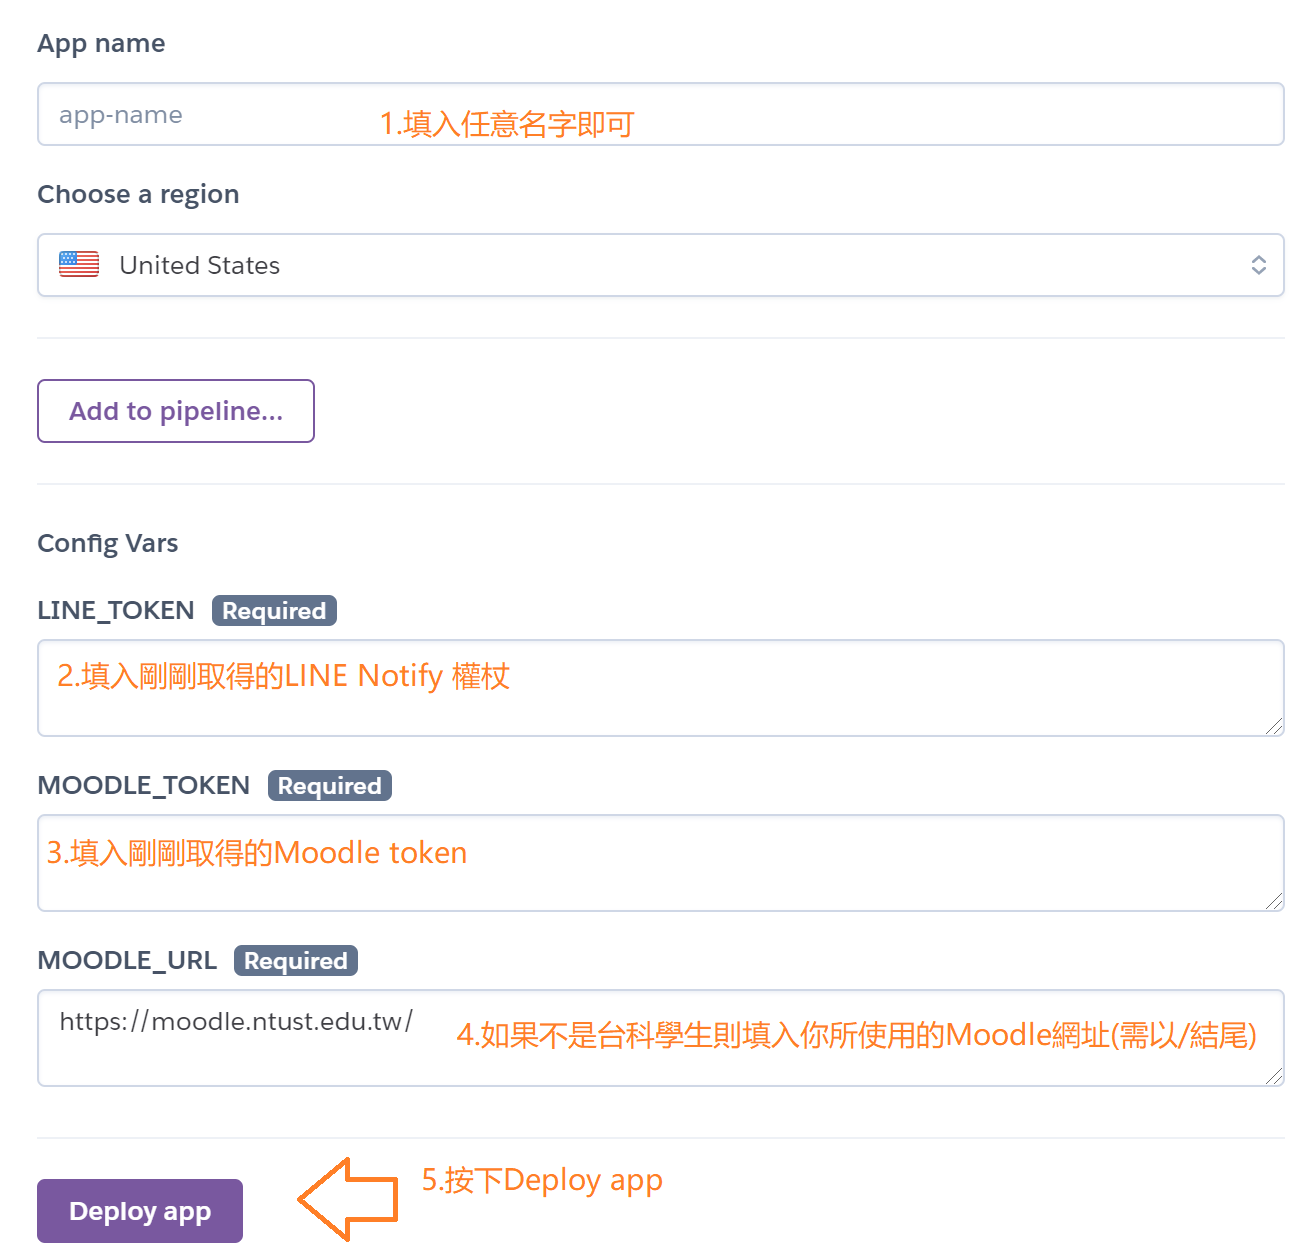
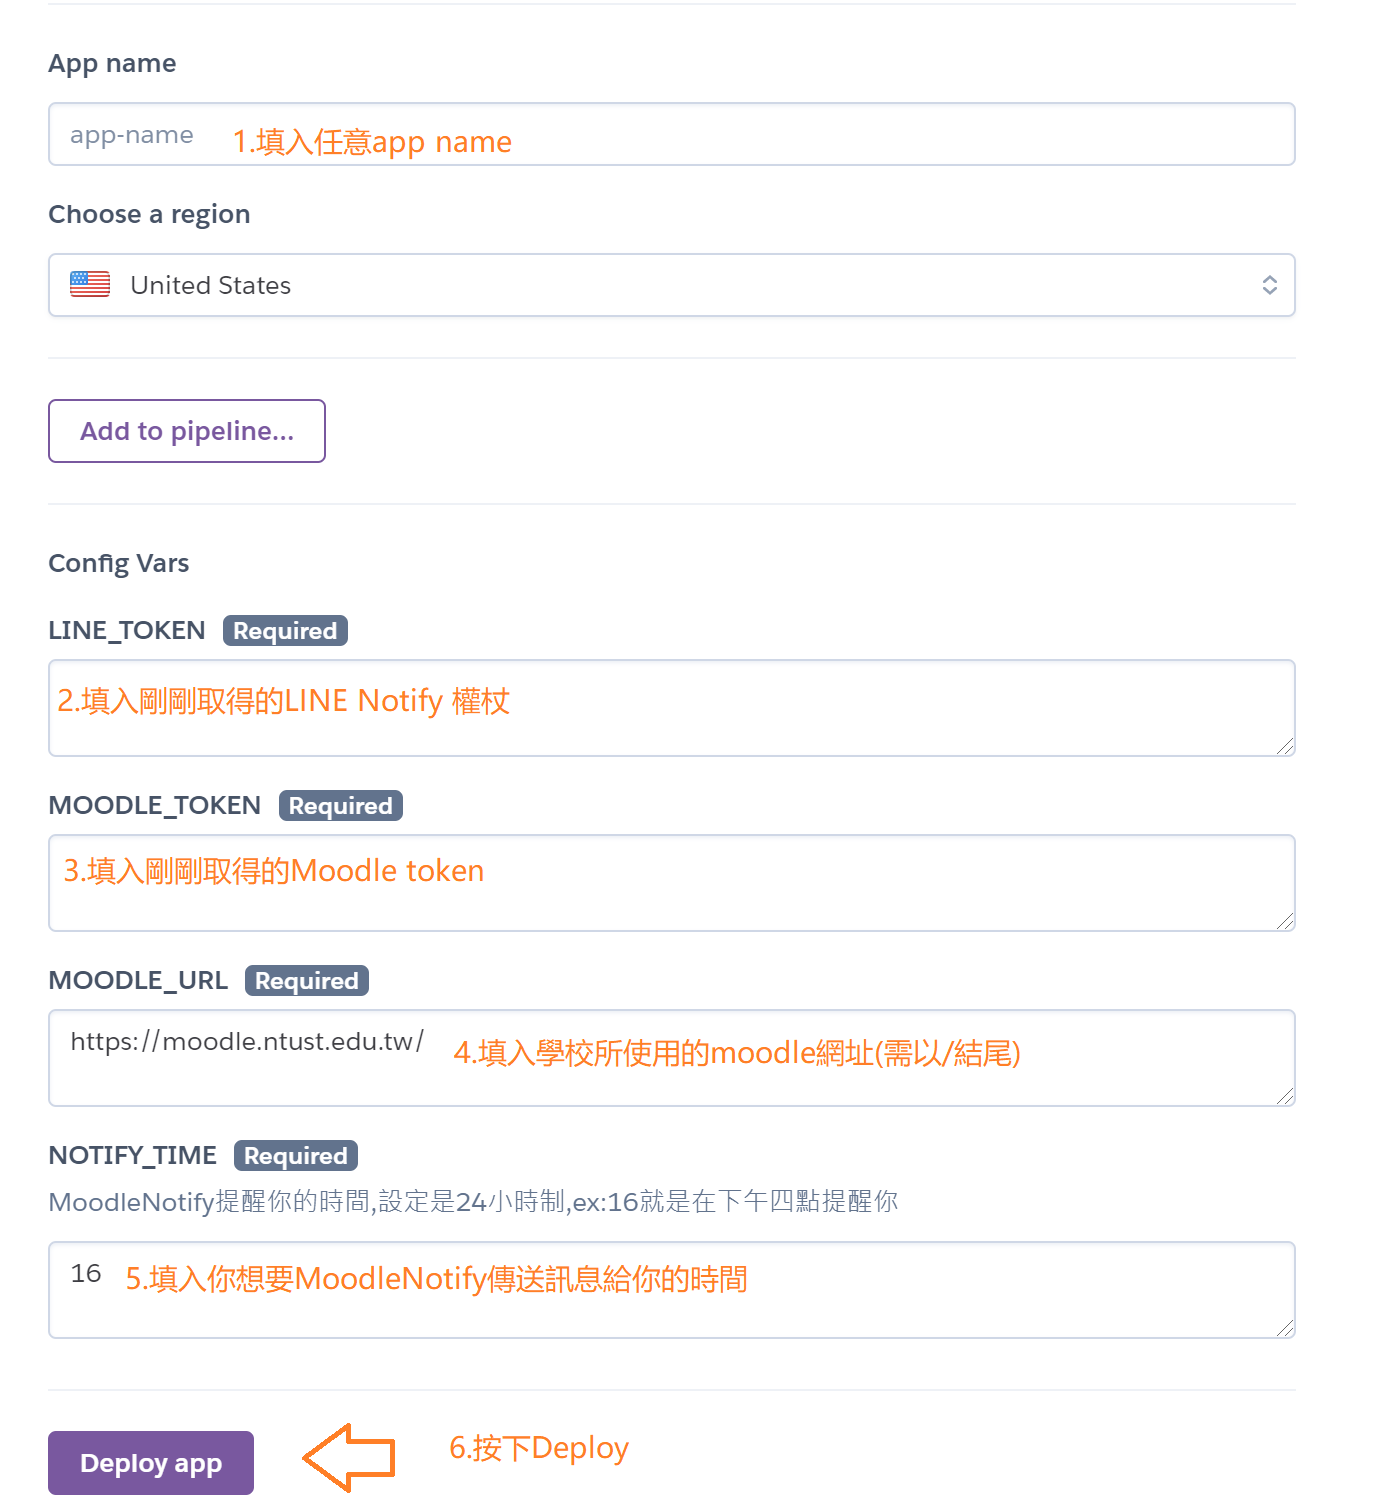
docs: add notify time usage

diff --git a/README.md b/README.md
@@ -1,7 +1,7 @@
 # MoodleNotify
 
 定時用Line提醒你Moodle上文件更新的好幫手  
-MoodleNotify會在每天下午4點(GMT+8)時提醒你moodle上的新資訊
+MoodleNotify每天會定時提醒你moodle上的新資訊
 
 #### 1.過去24小時内被修改過的檔案
 
@@ -13,11 +13,12 @@ MoodleNotify會在每天下午4點(GMT+8)時提醒你moodle上的新資訊
 
 ### 環境變數
 
-有三個環境變數需要使用者進行設定
+有四個環境變數需要使用者進行設定
 ```
 MOODLE_TOKEN
 LINE_TOKEN
 MOODLE_URL
+NOTIFY_TIME
 ```
 
 #### MOODLE_TOKEN
@@ -46,13 +47,17 @@ MOODLE_URL
 
 學校所使用的Moodle網址 如<https://moodle.ntust.edu.tw/>(結尾一定要是`/`)
 
+#### NOTIFY_TIME
+
+MoodleNotify提醒你的時間 為24小時制 設定16就是下午四點 8就是上午八點
+
 ### Heroku
 
 [![Deploy](https://www.herokucdn.com/deploy/button.svg)](https://heroku.com/deploy)
 
 按下上方部署按鈕並跟隨以下步驟
 
-#### 填入`app name`和3個環境變數對應的值並按下`Deploy app`
+#### 填入`app name`和4個環境變數對應的值並按下`Deploy app`
 
 ![alt text](https://github.com/MirrorShih/MoodleNotify/blob/main/assets/heroku_deploy.png)
 
